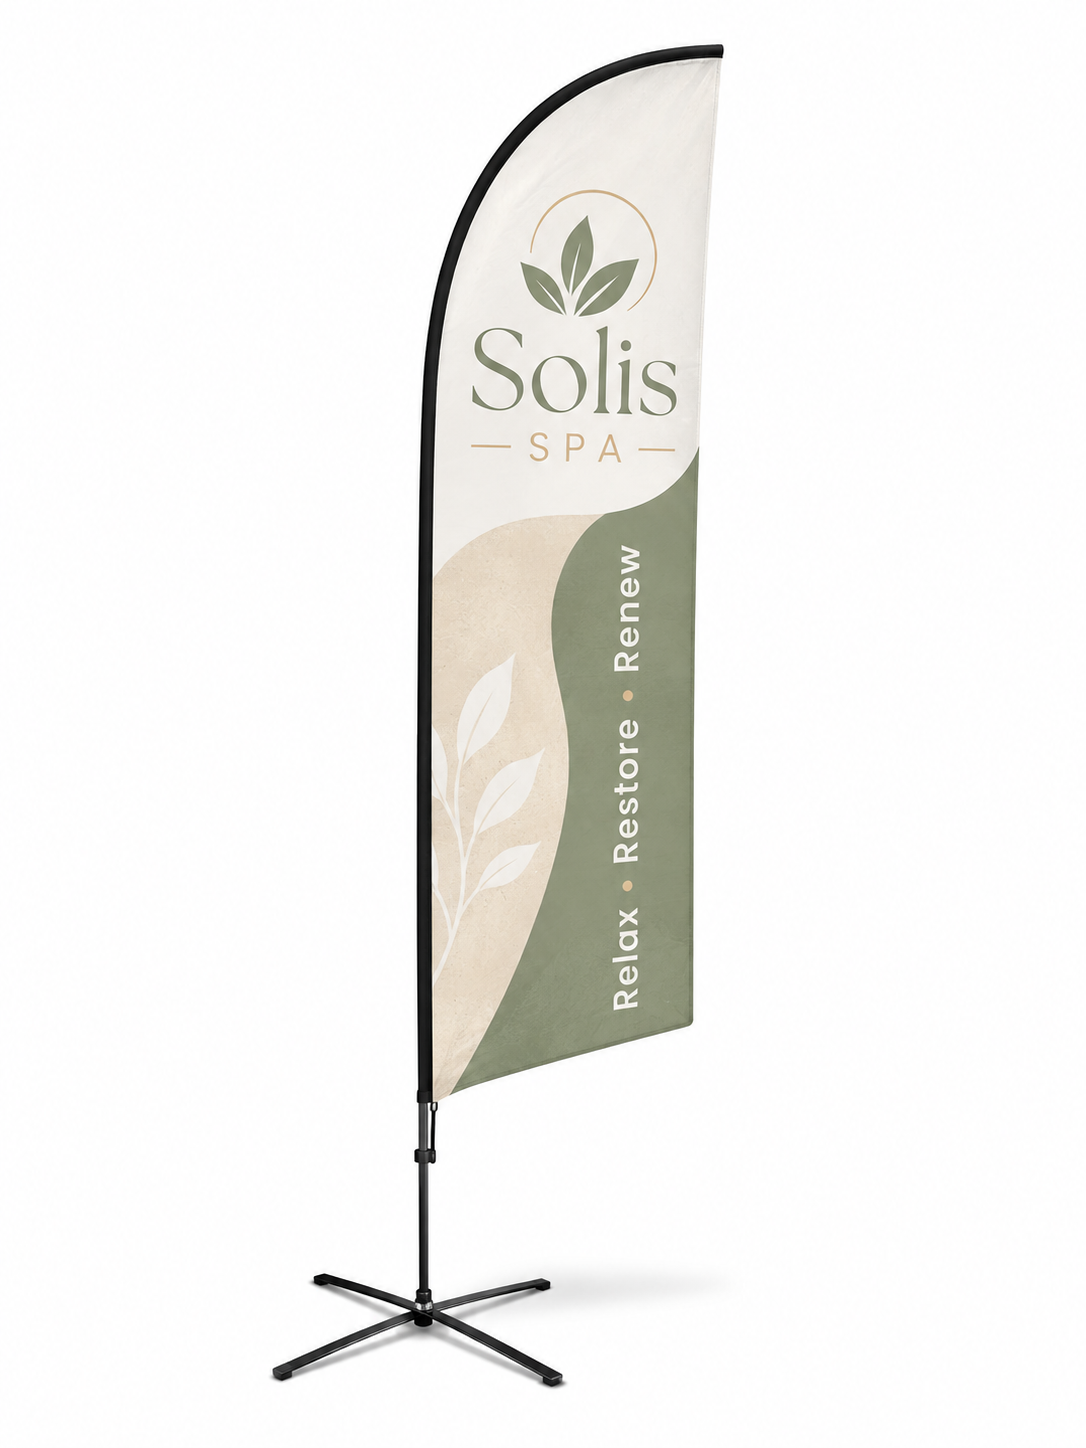
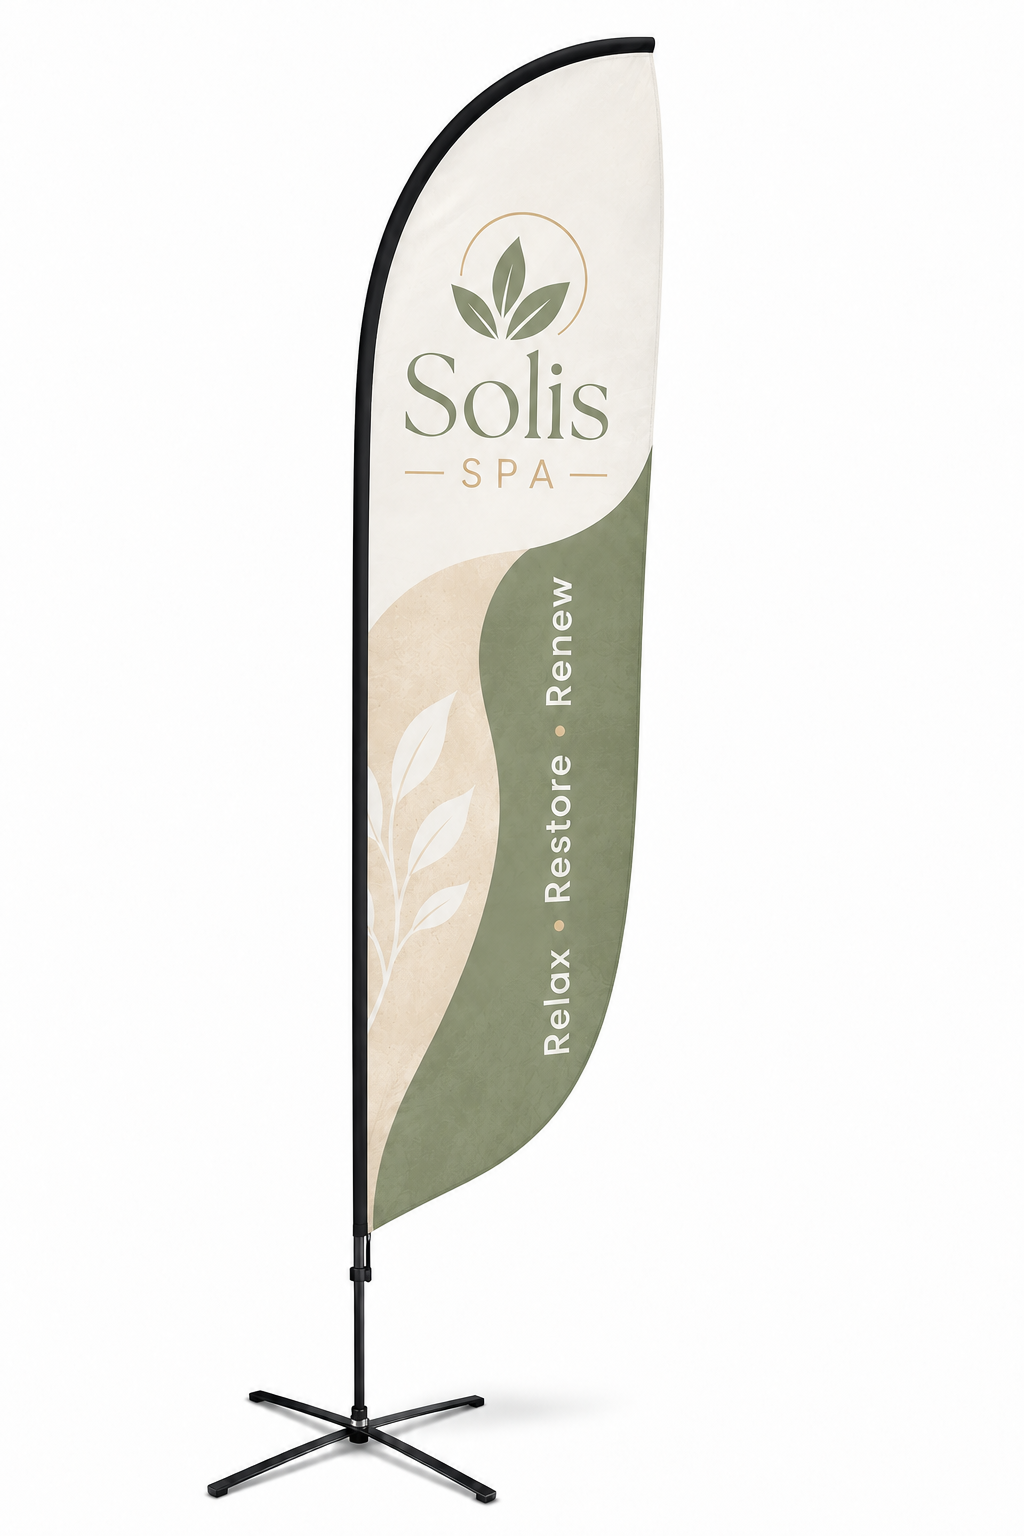
Flags: correct convex hero image + show matrix option price deltas
- Replaced the Feather Convex hero with a true convex-top flag (was reading
  as angled); same path, so card + gallery update automatically.
- Matrix option groups (size/package/printing/production on flags, banners,
  tension) previously showed "Included" for every choice because a matrix
  dimension has no standalone price. Now each choice shows its price DELTA
  vs the group default given the current selection — e.g. "2–3 days rush
  → +$50" (and +$30 on large, per the real rate card), double-sided +$X,
  graphic-only −$X. The instant-price total was always correct; this fixes
  the per-option labels.

Changed region(s): [[0.1875, 0.0, 0.6875, 0.9945]]

diff --git a/src/pages/ProductConfigurator.jsx b/src/pages/ProductConfigurator.jsx
@@ -190,6 +190,33 @@ export default function ProductConfigurator() {
   // card can show its exact $ value without dividing a lagging total (no flicker).
   const preMultTotal = price?.preMultipliedSubtotal || 0;
 
+  // For priceMatrix products, an option dimension (size/package/sides/production)
+  // has no standalone price — its cost is baked into the combined lookup. Show
+  // each choice's price DELTA vs that group's default, given the current other
+  // selections (e.g. "2–3 days rush → +$50"), so buyers see what an option adds.
+  const matrixMeta = (group, choice) => {
+    const pm = p?.priceMatrix;
+    const groups = p?.matrixGroups;
+    if (!pm || !Array.isArray(groups) || !groups.includes(group.id)) return 'Included';
+    const idOf = (gid, override) => {
+      if (gid === group.id) return override;
+      const v = sel[gid];
+      if (v != null) return v;
+      const g = (p.optionGroups || []).find((x) => x.id === gid);
+      const d = (g?.choices || []).find((c) => c.default) || (g?.choices || [])[0];
+      return d?.id;
+    };
+    const keyFor = (override) => groups.map((gid) => idOf(gid, override)).join('|');
+    const def = (group.choices.find((c) => c.default) || group.choices[0])?.id;
+    const a = Number(pm[keyFor(choice.id)]);
+    const b = Number(pm[keyFor(def)]);
+    if (!Number.isFinite(a) || !Number.isFinite(b)) return '';
+    const d = a - b;
+    if (d > 0) return `+${money(d)}`;
+    if (d < 0) return `−${money(-d)}`;
+    return 'Included';
+  };
+
   // Quantity field — reused in the configured grid (next to Artwork) and below
   // the size/material controls for the other pricing models.
   const qtyField = (
@@ -364,7 +391,9 @@ export default function ProductConfigurator() {
                                       : preMultTotal
                                         ? `+${money(preMultTotal * (Number(choice.mult) - 1))}`
                                         : multiplierHint(choice.mult))
-                                  : multiplierHint(choice.mult)}
+                                  : group.pricing === 'matrix'
+                                    ? matrixMeta(group, choice)
+                                    : multiplierHint(choice.mult)}
                           </span>
                           )}
                         </button>
